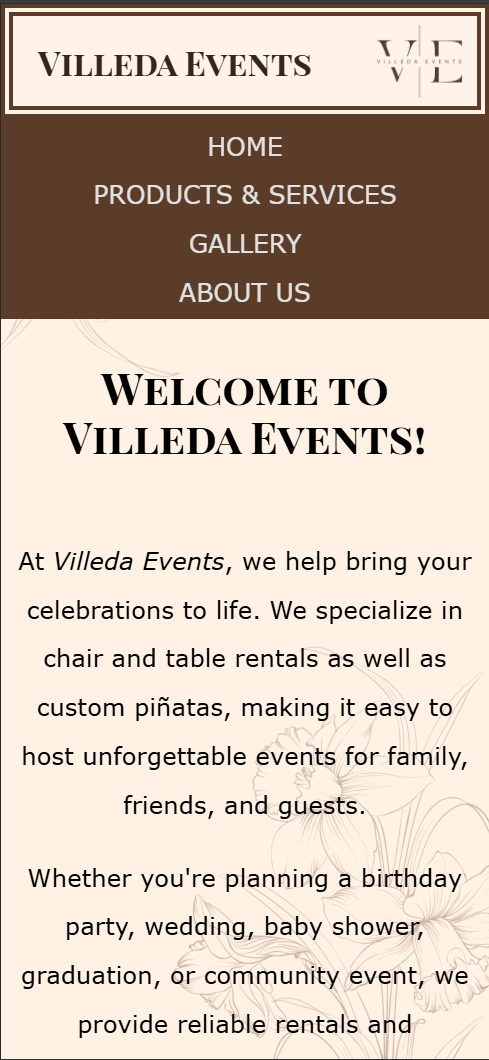
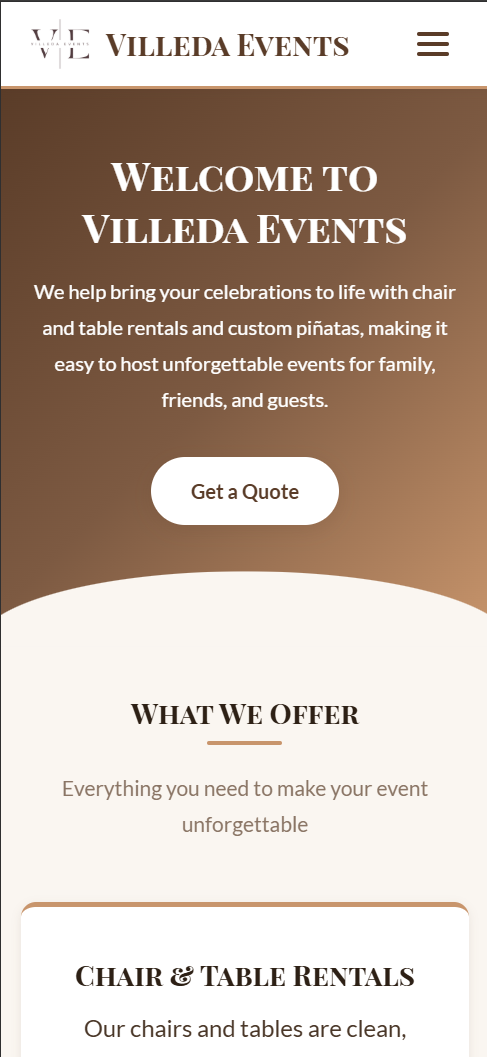
pricing changes

diff --git a/pricing.html b/pricing.html
@@ -263,8 +263,8 @@
                     </div>
 
                     <div class="feature-right">
-                        <span class="price">$25</span>
-                        <input type="radio" name="shadow-style" id="shadow-photo" data-price="25">
+                        <span class="price">$10</span>
+                        <input type="radio" name="shadow-style" id="shadow-photo" data-price="10">
                     </div>
                 </div>
 
@@ -278,8 +278,8 @@
                     </div>
 
                     <div class="feature-right">
-                        <span class="price">$25</span>
-                        <input type="radio" name="framed-style" id="framed-photo" data-price="25">
+                        <span class="price">$10</span>
+                        <input type="radio" name="framed-style" id="framed-photo" data-price="10">
                     </div>
                 </div>
 
@@ -293,8 +293,8 @@
                     </div>
                     
                     <div class="feature-right">
-                        <span class="price">$35</span>
-                        <input type="radio" name="polaroid-style" id="polaroid-photo" data-price="35">
+                        <span class="price">$20</span>
+                        <input type="radio" name="polaroid-style" id="polaroid-photo" data-price="20">
                     </div>
                 </div>
 
@@ -308,8 +308,8 @@
                     </div>
                     
                     <div class="feature-right">
-                        <span class="price">$50</span>
-                        <input type="radio" name="overlay-style" id="polaroid-photo" data-price="50">
+                        <span class="price">$30</span>
+                        <input type="radio" name="overlay-style" id="polaroid-photo" data-price="30">
                     </div>
                 </div>
 
@@ -323,8 +323,8 @@
                     </div>
                     
                     <div class="feature-right">
-                        <span class="price">$75</span>
-                        <input type="radio" name="window-style" id="window-photo" data-price="75">
+                        <span class="price">$40</span>
+                        <input type="radio" name="window-style" id="window-photo" data-price="40">
                     </div>
                 </div>
 
@@ -355,8 +355,8 @@
                     </div>
 
                     <div class="feature-right">
-                        <span class="price">$75</span>
-                        <input type="radio" name="gallery-styles" id="interactive-gallery" data-price="75">
+                        <span class="price">$50</span>
+                        <input type="radio" name="gallery-styles" id="interactive-gallery" data-price="50">
                     </div>
                 </div>
 
@@ -370,8 +370,8 @@
                     </div>
 
                     <div class="feature-right">
-                        <span class="price">$75</span>
-                        <input type="radio" name="gallery-styles" id="hover-gallery" data-price="75">
+                        <span class="price">$50</span>
+                        <input type="radio" name="gallery-styles" id="hover-gallery" data-price="50">
                     </div>
                 </div>
 
@@ -385,8 +385,8 @@
                     </div>
 
                     <div class="feature-right">
-                        <span class="price">$100</span>
-                        <input type="radio" name="gallery-styles" id="filter-gallery" data-price="100">
+                        <span class="price">$75</span>
+                        <input type="radio" name="gallery-styles" id="filter-gallery" data-price="75">
                     </div>
                 </div>
 
@@ -400,8 +400,8 @@
                     </div>
 
                     <div class="feature-right">
-                        <span class="price">$150</span>
-                        <input type="radio" name="gallery-styles" id="lightbox-gallery" data-price="150">
+                        <span class="price">$100</span>
+                        <input type="radio" name="gallery-styles" id="lightbox-gallery" data-price="100">
                     </div>
                     
                 </div>
@@ -423,8 +423,8 @@
                     </div>
 
                     <div class="feature-right">
-                        <span class="price">$130</span>
-                        <input type="radio" name="gallery-styles" id="enhanced-gallery" data-price="130">
+                        <span class="price">$100</span>
+                        <input type="radio" name="gallery-styles" id="enhanced-gallery" data-price="100">
                     </div>
                     
                 </div>
@@ -442,8 +442,8 @@
                     </div>
 
                     <div class="feature-right">
-                        <span class="price">$200</span>
-                        <input type="radio" name="gallery-styles" id="advanced-gallery" data-price="200">
+                        <span class="price">$140</span>
+                        <input type="radio" name="gallery-styles" id="advanced-gallery" data-price="140">
                     </div>
 
                 </div>
@@ -462,8 +462,8 @@
                     </div>
 
                     <div class="feature-right">
-                        <span class="price">$250</span>
-                        <input type="radio" name="gallery-styles" id="premium-gallery" data-price="250">
+                        <span class="price">$175</span>
+                        <input type="radio" name="gallery-styles" id="premium-gallery" data-price="175">
                     </div>
 
                 </div>

diff --git a/mywork-styles.css b/mywork-styles.css
@@ -163,6 +163,7 @@ h4 {
     flex-direction: row;
     gap: 15px;
     justify-content: baseline;
+    align-items: center;
     padding: 20px 0;
 }
 
